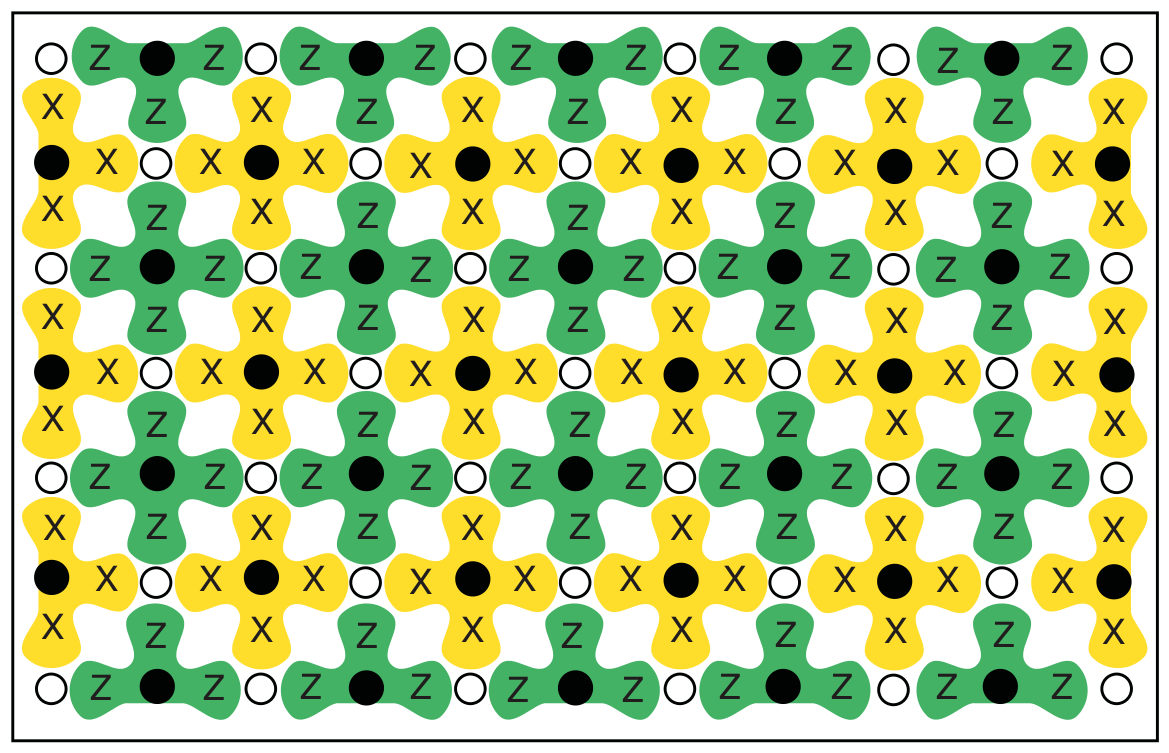
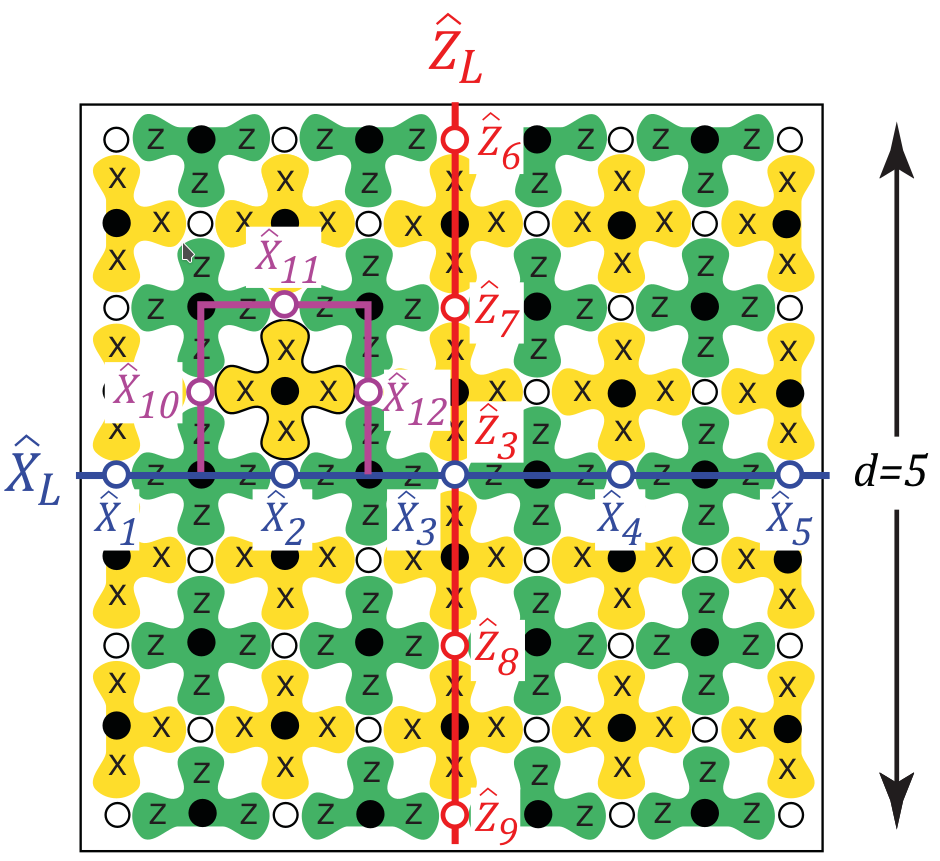
Changed figure from intro and added small change in the text.

diff --git a/intro.tex b/intro.tex
@@ -30,26 +30,31 @@ recent decades from the schemes proposed by Shor \cite{Shor_1995_QEC} and Steane
 \cite{fowler12_surfac_codes} that have higher tolerance to errors and require
 fewer interactions among the qubits.
 
+
+\subsection{Surface codes}
 \begin{figure}
   \centering
   \includegraphics[width=0.4\textwidth]{images/surface_code.png}
-  \caption{A 2D array of qubits implementing the surface code. Data qubits are
-    the white circles, which are connected to 2 $Z$- and 2 $X$-stabilizers
-    respectively. This code is capable of precisely characterizing Pauli noise
-    due to the complimentary spacing of the $X$ and $Z$ checks. Figure from
+  \caption{A 2D array of qubits representing a surface code of distance 5. Data
+    qubits are the white circles, which are connected to 2 $Z$- (green) and 2
+    $X$- (yellow) stabilizers respectively. The figure also shows the how to
+    define the logical operations $Z_L = Z_6Z_7Z_3Z_8Z_9$ (red) and $X_L =
+    X_1X_2X_3X_4X_5$ that anticomute. The purple line stands for an operation on
+    the data qubits, $X_s = X_2 X_{10}X_{11} X_{12} $ that does not affect the
+    logical state of the qubit (it is a stabilizer). Figure from
     \cite{fowler12_surfac_codes}.}
   \label{fig:surface_code}
 \end{figure}
-
-\subsection{Surface codes}
 Before discussing the fundamentals of QEC in the following section, we want to
-briefly introduce surface codes, and how they can be used to store quantum states.
+briefly introduce surface codes, and how they can be used to store quantum
+states.
 
+%measurement qubits or ancullary qubits?
 Surface codes, a class of topological QEC codes, implement error correction
 through a 2D array of qubits on a lattice, as shown in Fig.
 \ref{fig:surface_code}. Computational states are stored in the \textit{data
-  qubits} (open circles), whereas error detection and correction is done through
-the \textit{measurement qubits} (solid circles). Qubits encoded in the surface
+  qubits} (open circles), whereas the \textit{ancillary qubits} (solid circles)
+perform indirect measurements of the stabilizers. Qubits encoded in the surface
 code are protected by stabilizers that only require nearest-neighbour
 interactions (making two-qubit gates easy to implement), have a very high error
 threshold relative to many other schemes \cite{terhal15}, and are capable of
